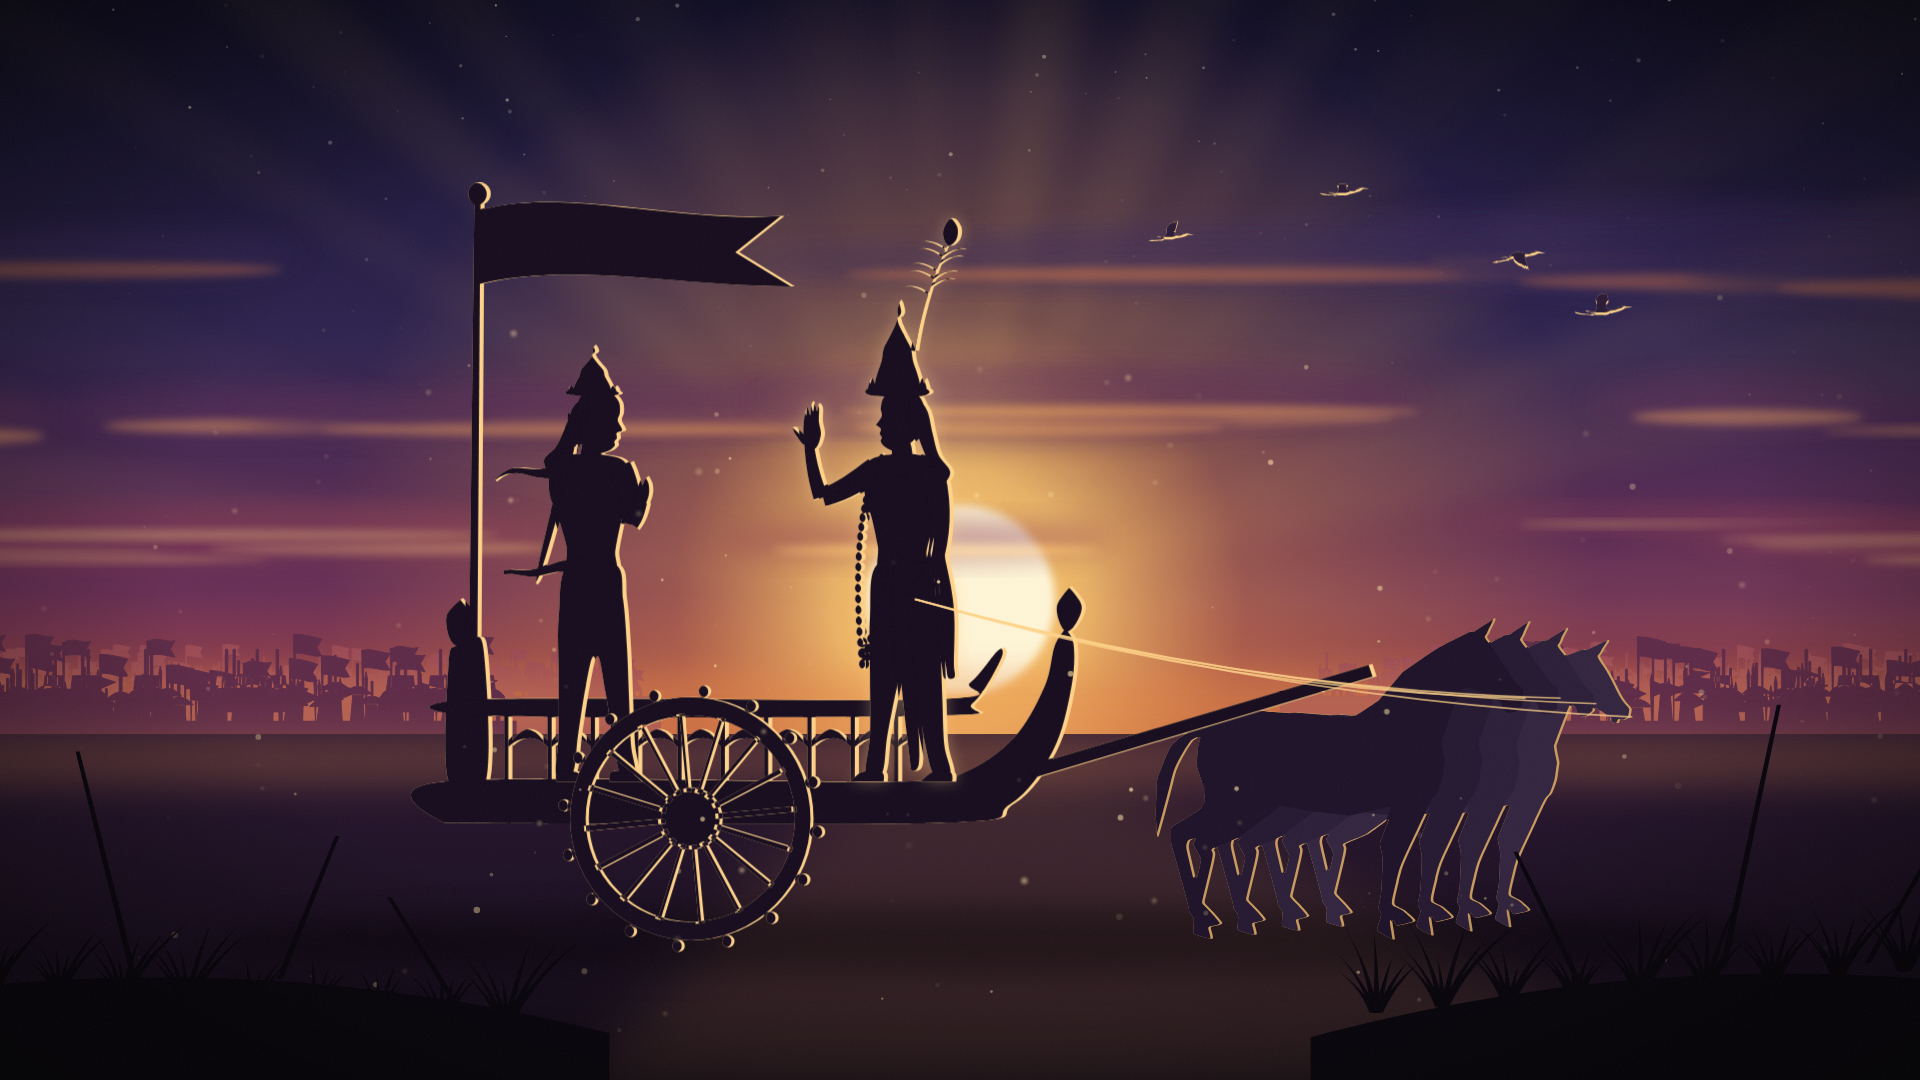
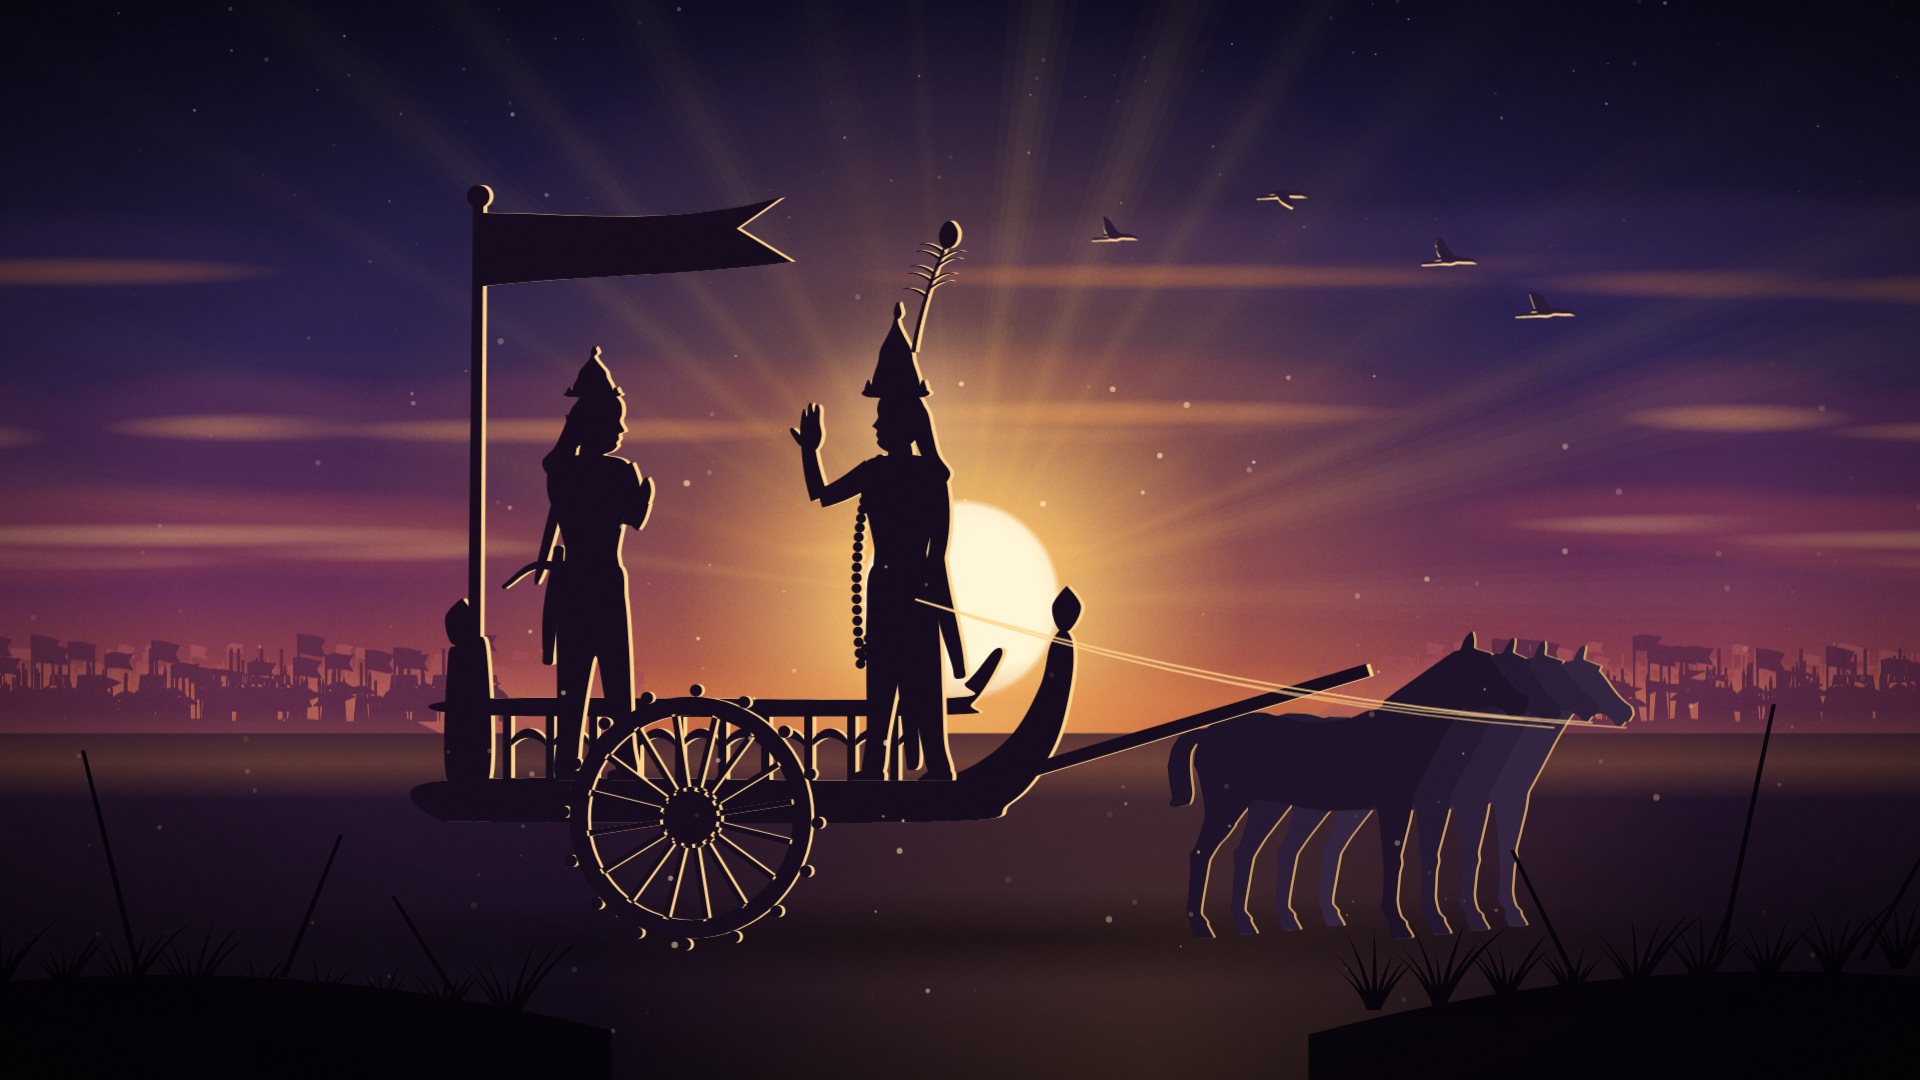
Gita film: handoff for the Mini; reference stills with the CC0 horses and drawn birds
- docs/katha/GITA_FILM.md: where the film stands, the commands to voice and render it on
  the Mini, the decisions AK must make before publishing, and the known rough edges.
- docs/katha/ref-chariot.png and ref-field.png re-rendered with the new silhouettes.
- STYLE_RESEARCH_GITHUB.md: the licence problem is marked resolved.

Claude-Session: https://claude.ai/code/session_01VdVXn6GXSu3P64rCN4MRPD

diff --git a/docs/katha/GITA_FILM.md b/docs/katha/GITA_FILM.md
@@ -1,0 +1,41 @@
+# The Gita film: state and how to finish it on the Mini
+
+*The Bhagavad Gita: The Song of the Lord*, as Sanjaya told it to the blind king. Composition `KT-gita`.
+
+## Where it stands (22 Oct 2026)
+
+- **Script**: `scripts/katha/gita.json`. 119 beats, 2,270 spoken words, all 18 chapters plus a prologue and an epilogue. Three drafts were judged by a scholar, a director and a strategist; the winner was merged and fact-checked. Every Krishna, Arjuna and Dhritarashtra line is the corpus text of its verse (Purohit Swami 1935; 4.7 from Sivananda 1949).
+- **Look**: Lamplight (AK's choice). The kit is in `src/katha/` (guide: `src/katha/README.md`; every piece on the `KATHA-kit` still). Reference stills are in this folder.
+- **Scenes**: all 19 metaphor scenes plus Sanjaya's hall, Krishna's cosmic form (only as light) and the end card are built and had one fix round against an art director's notes. Builders self-scored them 7 to 8.5 out of 10.
+- **On screen**: every quoted line shows its chapter, verse and translator; our own readings carry OUR NOTE.
+- **Licences**: horses traced from the CC0 Quaternius horse, birds drawn in code, fonts OFL, music synthesised in code. `build_film.py` checks every silhouette's credit on each build.
+- **Length**: about 18.7 min estimated. The real length comes from the voice.
+
+## On the Mini
+
+```bash
+git pull
+npm ci
+python3 scripts/dharma/tanpura.py        # tanpura bed and bell (wav files are not in git)
+python3 scripts/katha/sounds.py          # conch, flute and swell cues
+export MINIMAX_API_KEY=...               # the key that lives on the Mini
+python3 scripts/katha/build_film.py scripts/katha/gita.json --tts    # voices every beat, caches the mp3s, re-times the film
+npx remotion studio                      # optional: scrub KT-gita before rendering
+npx remotion render src/index.ts KT-gita out/gita.mp4
+```
+
+The build prints four checks; all four should pass: quotes are corpus text, every beat resolves to a scene, every quoted line is attributed on screen, and every silhouette is CC0 or drawn in code. `public/katha/gita/description.txt` holds the YouTube description with chapter timestamps (rebuilt from the voiced timing) and credits.
+
+## Decisions for AK before publishing
+
+1. **A voice for Krishna.** Rule 1 says the narrator never speaks as a god. The script gives Krishna's quoted verses their own voice settings (`KRISHNA` in `VOICES`, `scripts/katha/build_film.py`), always with the verse plate on screen. Keep that, or have Sanjaya read the verses?
+2. **The disclosure.** It is spoken once at the end, over the end card, not early. Keep it there?
+3. **Pronunciation.** Ear-test the Sanskrit names in the MiniMax voice, and the letter "A" at beat c10b02 ("ay" or "uh").
+4. **13.34.** Purohit widens the Sanskrit. Sivananda's wording would tie the verse to the chapter title, but it would be a second Sivananda exception.
+5. **The printed text.** The corpus English is an edited, modernised copy. Check every quoted line against the printed 1935 Purohit (and 1949 Sivananda for 4.7) before publishing; start with 2.12, 18.72 and 4.7.
+
+## Known rough edges
+
+- The birds read well at flock size, but at close-up their wing upstroke snaps. The review loop was stopped to save effort.
+- The scenes had one fix round, not a final independent review. Scrub the studio once before the final render.
+- The standing team of four horses lines up its legs like a comb in side view.

diff --git a/docs/STYLE_RESEARCH_GITHUB.md b/docs/STYLE_RESEARCH_GITHUB.md
@@ -17,6 +17,8 @@ The art director's full write-up of each direction, with scene recipes, build st
 
 The horse and bird silhouettes in the Katha kit are not safe for a monetised channel.
 
+**Resolved, 21 to 22 Oct.** AK approved the fix and chose Lamplight. The horses are re-traced from the CC0 Quaternius horse, the birds are drawn in code, and `build_film.py` checks every silhouette's credit on each build (`src/katha/sil/LICENSES.md`). The film's state is in `docs/katha/GITA_FILM.md`.
+
 - **What happened.** They were traced from the horse, flamingo, stork and parrot models that ship in the three.js repository. Those models come from *3 Dreams of Black* (ro.me). That repository's README says it "has been opened up with the Apache License 2.0", and I relied on that line. The models folder carries its own licence file, and it reads: "3D assets and textures ... are licensed under a Creative Commons Attribution-NonCommercial-ShareAlike 3.0 Unported License".
 - **Who confirmed it.** I read that file myself. Two research checkers reached the same verdict on their own, the 3D checker and the illustration-library checker.
 - **What it touches.** The traced frames in `src/katha/sil/` feed the chariot team, the standing horses and the flocks of birds. Nothing has been published.
